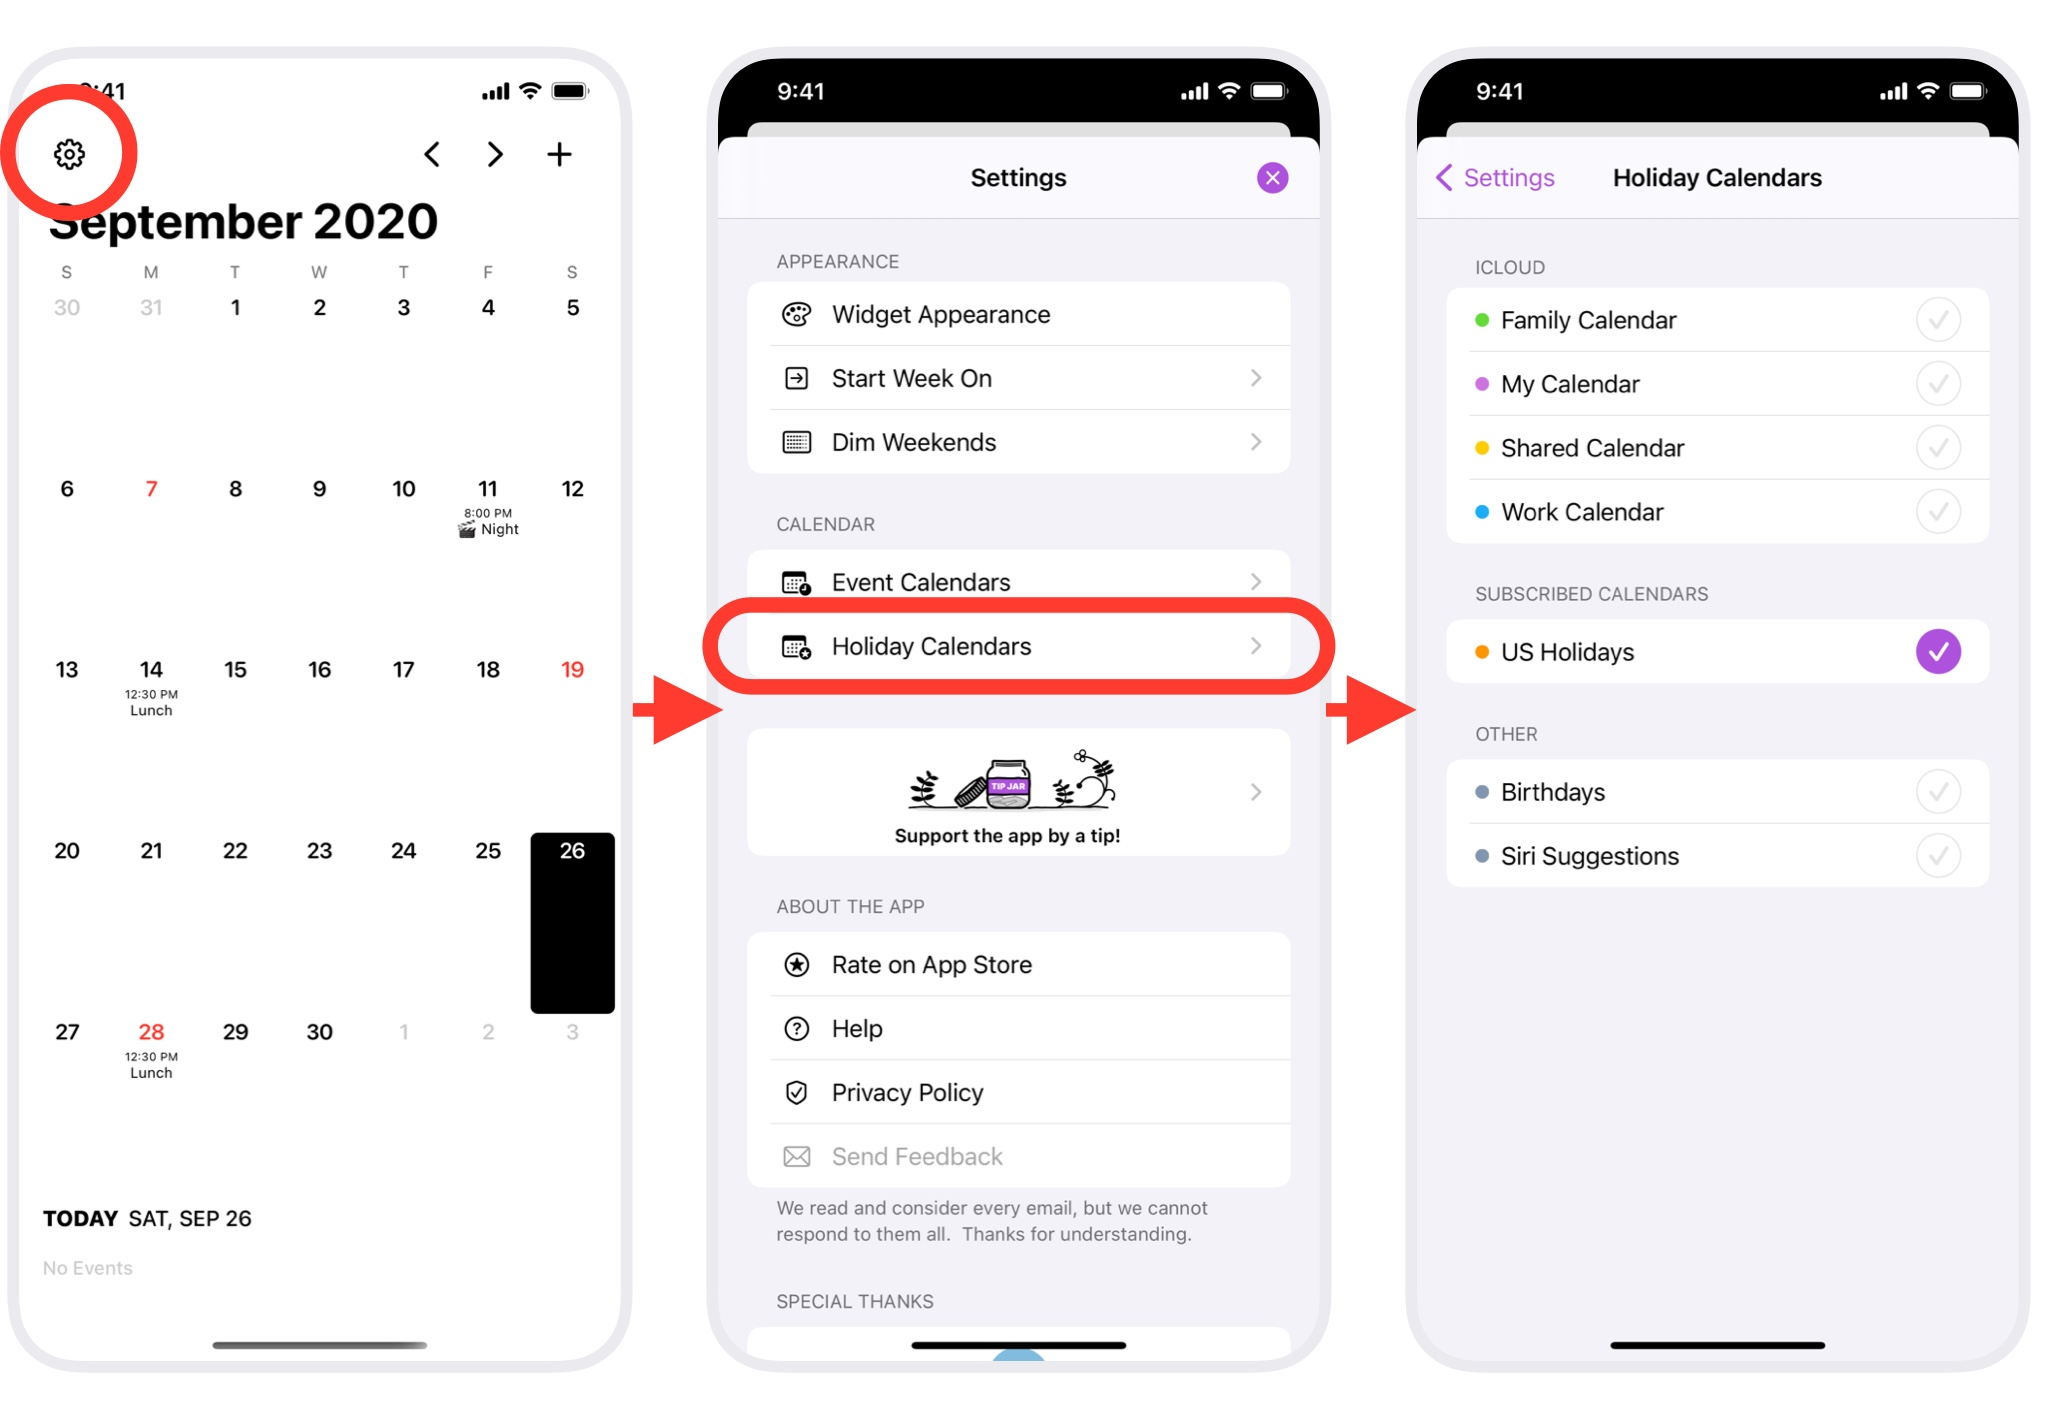
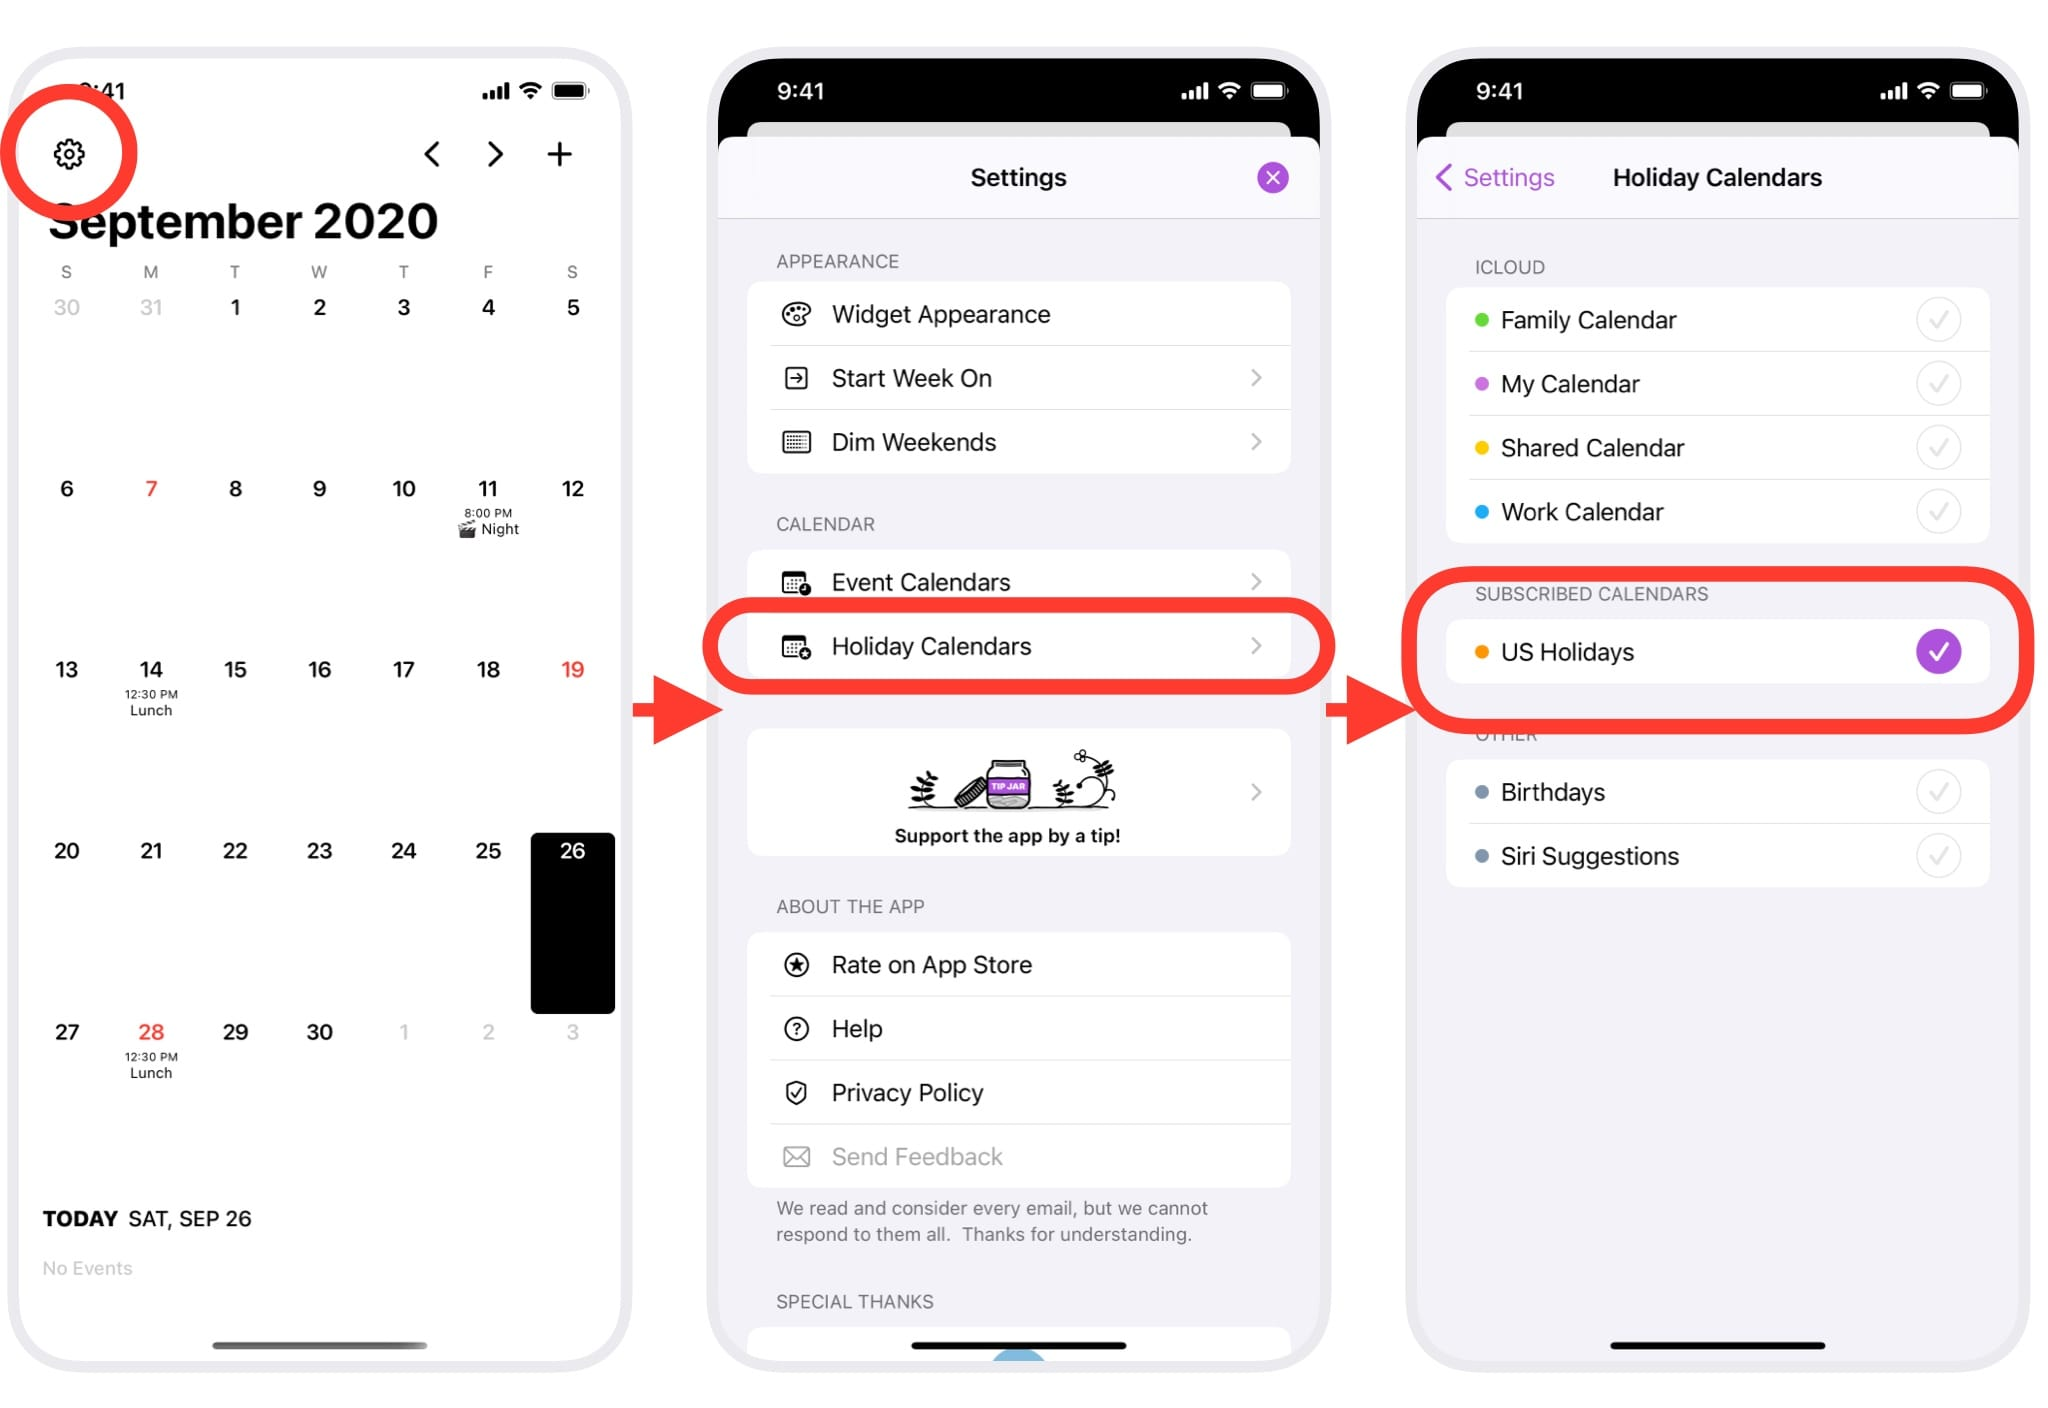
Update Ermine Help

Changed region(s): [[0.6562, 0.375, 1.0, 0.5312]]

diff --git a/ja/ermine/help06.html b/ja/ermine/help06.html
@@ -19,19 +19,42 @@
 		<h1><a href="help.html"><i class="fa fa-smile-o"></i> ヘルプ</a></h1>
 
 <!-- start ============================== -->
-<h2>ウィジェット「今日のカレンダー」 に予定がひとつしか表示されない</h2>
+<h2>祝日が間違っている、または表示されない</h2>
 
-<p><img src="../../ermine/img/help06_01_ja@2x.jpg" alt="ウィジェット" width="400"></p>
+<p>祝日情報は、Ermineからは提供していません。祝日カレンダーの選択時に選択していただいたカレンダー元からの情報になります。</p>
 
-<p>「今日のカレンダー」ウィジェットで左下に表示される予定の件数には制限があります。表示されるイベントは以下のものです。</p>
+<p>祝日に誤った情報が掲載されている場合は、古い情報の入った祝日カレンダーを参照している、または祝日カレンダーの更新がうまくいっていない可能性がありますので、下記をご確認ください。</p>
 
-<ul>
-<li>現在行われているイベント 1件</li>
-<li>次のイベント（その日に行われる、開始時間が現在日時以降のイベントのうち、直近のもの） 1件</li>
-<li>終日のイベント 1件</li>
-</ul>
+<h3>最新の祝日カレンダーを使う</h3>
+<p>祝日カレンダーは、AppleやGoogleなど、最新情報が更新されている祝日カレンダーをご利用ください。（ダウンロードして登録するタイプのカレンダーは情報が古くなりがちです）</p>
 
-<p>現行バージョンで、このウィジェットの説明文が「今日のイベントを表示します。」となっていますが、正しくは、今日のイベントのうち直近のものが表示されます（次のアップデートで修正予定）。</p>
+<p>iOSのカレンダーでは、Apple提供の祝日カレンダーが地域設定に応じて照会されていますので、Ermineでもそれをご利用いただくのがおすすめです。</p>
+
+<p>Ermineでは、「SUBSCRIBED CALENDARS」の欄に表示されている「日本の祝日」を選択してください。（祝日カレンダー名は地域によって変わります）</p>
+
+<p><img src="../../ermine/img/help03_02_ja@2x.jpg" alt="祝日カレンダーの設定手順画像" width="800"></p>
+
+<p>参考：<a href="help02.html">祝日カレンダーとは</a></p>
+
+<h3>Appleの祝日カレンダーでも古い祝日情報が出ている場合 </h3>
+<p>上記設定で、Appleの提供している祝日カレンダーを使っていて、なお、古い祝日情報が出ている場合は、祝日カレンダーの情報がうまく更新されていない可能性があります。「カレンダー」アプリを開いて「出席依頼」をタップし、画面をゆっくり下へスワイプすると最新の情報へ更新されます。</p>
+
+<h3>Apple提供の祝日カレンダーが一覧に表示されない</h3>
+
+<p>Apple提供の祝日カレンダーは、「設定」アプリでの「地域」の設定によって自動的にiPhone/iPadのカレンダーに表示されているものです。</p>
+
+<p>詳しくはこちらのAppleのページをご覧ください。<br>
+	<a href="https://support.apple.com/ja-jp/HT208541">iOS および macOS の祝日カレンダーについて - Apple サポート</a></p>
+
+<p>祝日カレンダーが表示されていない場合は、いったん地域をほかの地域に切り替えて戻すことで表示されるようになることがあるようです。<br>
+また、地域を正しく設定しても、OSの使用言語がその地域の言語と異なる場合も表示されません。その場合は、「優先する言語」のリストに、地域の言語を追加することで表示されるようになります。下記手順をお試しください。</p>
+
+<ol start="1"><li>iOSの「設定」アプリを開き、「一般」＞「言語と地域」へ移動。
+</li><li>「地域」を一度別の地域に変更したのち、「日本」（お住まいの国の名前）に戻す。
+</li><li>地域と使用言語が異なっている場合（たとえば地域は「日本」で、使用言語は「English」など）は、地域設定の上にある「使用言語の優先順序」の「言語を追加...」 をタップして、地域と合った言語を追加。
+</li><li>iOSの「カレンダー」アプリを開き、カレンダーの一覧に「日本の祝日」（またはUS Holidaysなどその地域名の祝日カレンダー）があることを確認。
+</li><li>Ermineアプリで祝日カレンダーを選択する。<a href="help02.html#setting">手順はこちら</a>。
+</li></ol>
 
 <!--
 <h3>参考URL:</h3>

diff --git a/ermine/help06.html b/ermine/help06.html
@@ -18,21 +18,44 @@
 		<h1><a href="help.html"><i class="fa fa-smile-o"></i> Help</a></h1>
 
 <!-- start ============================== -->
-<h2>The "Today" Widget shows one event only.</h2>
+<h2>Wrong holidays or no holidays are displayed.</h2>
 
-<p><img src="img/help06_01@2x.jpg" alt="The widget" width="400"></p>
+<p>Ermine does not provide holiday information. It comes from the calendar source you selected in Ermine's settings. </p>
 
-<p>There is a limit to the number of events that the app shows in the "Today" widget.</p>
+<p>If holidays are wrong, the holiday calendar source may be wrong, or the holiday calendar may not be updated properly.</p>
 
-<p>The events that can be displayed are as follows:</p>
+<h3>Use Apple's  holiday calendar</h3>
+<p>Please use a holiday calendar that is updated with the latest information, such as Apple, Google, etc. </p>
 
-<ul>
-<li>1 current event</li>
-<li>1 next event (the most recent event for today)</li>
-<li>1 all-day event</li>
-</ul>
+<p>On iOS, Apple's holiday calendar is set according to your region's preferences. We recommend that you use it in Ermine as well.</p>
 
-<p>In the current version of the app, the description of this widget states: "View month calendar and today events." But the widget shows not all events for the day, but the most recent event. (We'll fix the description in the next update). </p>
+<p>In Ermine, select "<strong>US Holidays</strong>" in the "<strong>SUBSCRIBED CALENDARS</strong>" section. (The name of the holiday calendar will vary depending on your region setting.</p>
+
+<p><img src="img/help03_02@2x.jpg" alt="How to Set holiday Calendars" width="800"></p>
+
+<p>Reference: <a href="help02.html">About Holiday Calendars</a></p>
+
+<h3>Apple's holiday calendar is also showing old holidays?</h3>
+
+<p>If you are using Apple's holiday calendar in the above settings and you still see old holidays, the holiday calendar may not be updated properly. Open the <strong>Calendar app</strong>, tap "<strong>Inbox</strong>", and swipe down slowly to update. </p>
+
+<h3>Apple's holiday calendar doesn't appear in the list?</h3>
+
+<p>Apple's holiday calendar appears automatically on the iPhone/iPad calendar based on the "Region" setting in the Settings app. </p>
+
+<p>For more information, please visit:<br>
+<a href="https://support.apple.com/en-us/HT208541">About holiday calendars on iOS and macOS - Apple Support</a></p>
+
+<p>If you can't see the holiday calendar by Apple, you may need to change some settings in the Settings app.</p>
+
+<p>Also, if the iOS language is different from the region, the holiday calendar doesn't appear. In this case, try adding the region's language to the list of Preferred Language. Try the steps below:</p>
+
+<ol start="1"><li>Open the <strong>Settings app</strong> and go to <strong>General</strong> > <strong>Language & Region</strong>.
+</li><li>Change "<strong>Region</strong>" to a different region and then change it back to your region.
+</li><li>If your region and language are different, tap "<strong>Add Language.</strong>.." under the "<strong>Preferred Language Order</strong>" section to add the language that matches the region.
+</li><li>Open the <strong>Calendar app</strong>, and make sure the holiday calendar is in the calendars list. (It may take a few minutes to appear.)
+</li><li>Select the holiday calendar in the <strong>Ermine app</strong>. <a href="help02.html#setting">Here are the instructions</a>.
+</li></ol>
 
 <!-- <h3>References:</h3>
 <ul>

diff --git a/ja/ermine/help02.html b/ja/ermine/help02.html
@@ -26,7 +26,7 @@
 	</div>
 	<div class="content">
 		<h1><a href="help.html"><i class="fa fa-smile-o"></i> ヘルプ</a></h1>
-		
+
 <!-- start ============================== -->
 <h2>祝日カレンダーとは</h2>
 
@@ -37,12 +37,12 @@
 <p>個人的な休日を追加したいなど、祝日をご自分用にカスタマイズしたい場合は、別途、祝日用のカレンダーを作成して設定してください。カレンダーの作成はAppleのカレンダーアプリから行えます。</p>
 
 
-<h3>祝日カレンダー設定方法</h3>
+<h3 id="setting">祝日カレンダー設定方法</h3>
 <p>祝日カレンダーの設定は、イベントカレンダーと同じ手順で行えます。</p>
 
 <ol start="1">
-<li>Ermineを開く</li>
-<li>画面左上の歯車⚙アイコンをタップ</li>
+<li>Ermine<img src="../../img/appicon_ermine@2x.png" alt="" width="20" class="inlineicon">を開く</li>
+<li>画面左上の歯車<img src="../../img/icon_gear@2x.png" alt="" width="20" class="inlineicon">アイコンをタップ</li>
 <li>設定画面で「祝日カレンダー」をタップ</li>
 <li>祝日カレンダー画面で、利用したい祝日用のカレンダーを選択☑してください（複数選択可）</li>
 </ol>

diff --git a/ermine/help03.html b/ermine/help03.html
@@ -35,7 +35,7 @@
 
 <p>Do not select a holiday calendar such as "US Holidays" here. Select it under "Holiday Calendars".</p>
 
-<p><img src="../../ermine/img/help03_01@2x.jpg" alt="How to Set Event Calendars" width="800"></p>
+<p><img src="img/help03_01@2x.jpg" alt="How to Set Event Calendars" width="800"></p>
 
 <p>You can choose your calendars from the list of calendars set up on your device (the calendars you can see in Apple's "Calendar" app). To use another new calendar, create a new calendar in Apple's Calendar app and select it as Event Calendars in Ermine.</p>
 

diff --git a/ermine/help02.html b/ermine/help02.html
@@ -43,7 +43,7 @@
 </li><li>Tap "Holiday Calendars".
 </li><li>Select calendars you want to use (you can choose multiple calendars).</li></ol>
 
-<p><img src="../../ermine/img/help03_01@2x.jpg" alt="How to Set Event Calendars" width="800"></p>
+<p><img src="img/help03_02@2x.jpg" alt="How to Set holiday Calendars" width="800"></p>
 
 <h3>Behavior of Holiday Calendars</h3>
 

diff --git a/ja/ermine/help.html b/ja/ermine/help.html
@@ -28,6 +28,7 @@
 		<h2>よくある質問 / トラブルシューティング</h2>
 		<ul>
 			<li><a href="help05.html">ウィジェットが更新されない</a></li>
+			<li><a href="help06.html">祝日が間違っている、または表示されない</a></li>
 		</ul>
 
 		<h2>既知の問題</h2>

diff --git a/ermine/help.html b/ermine/help.html
@@ -29,6 +29,7 @@
 		<h2>FAQ / TROUBLESHOOTING</h2>
 		<ul>
 			<li><a href="help05.html">Widgets are not updating</a></li>
+			<li><a href="help06.html">Wrong holidays or no holidays are displayed.</a></li>
 		</ul>
 
 		<h2>Known Issues</h2>
